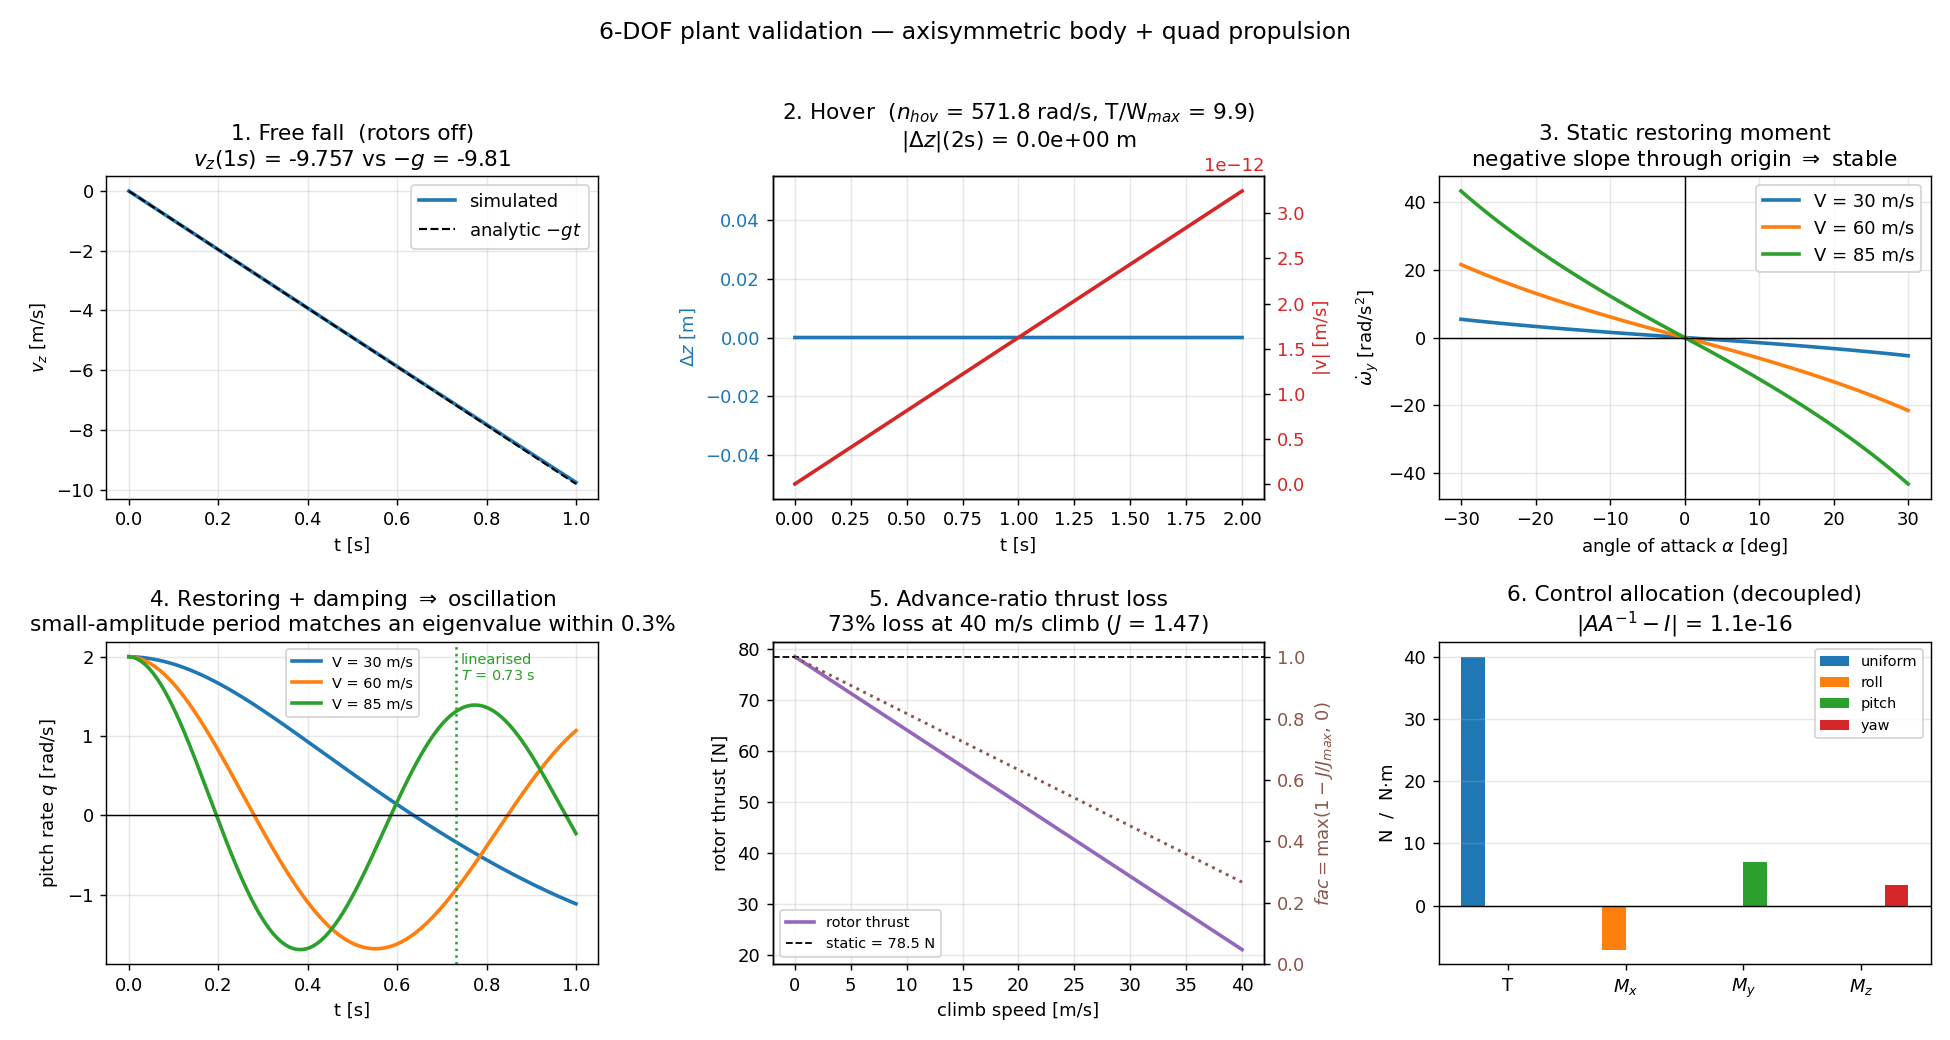
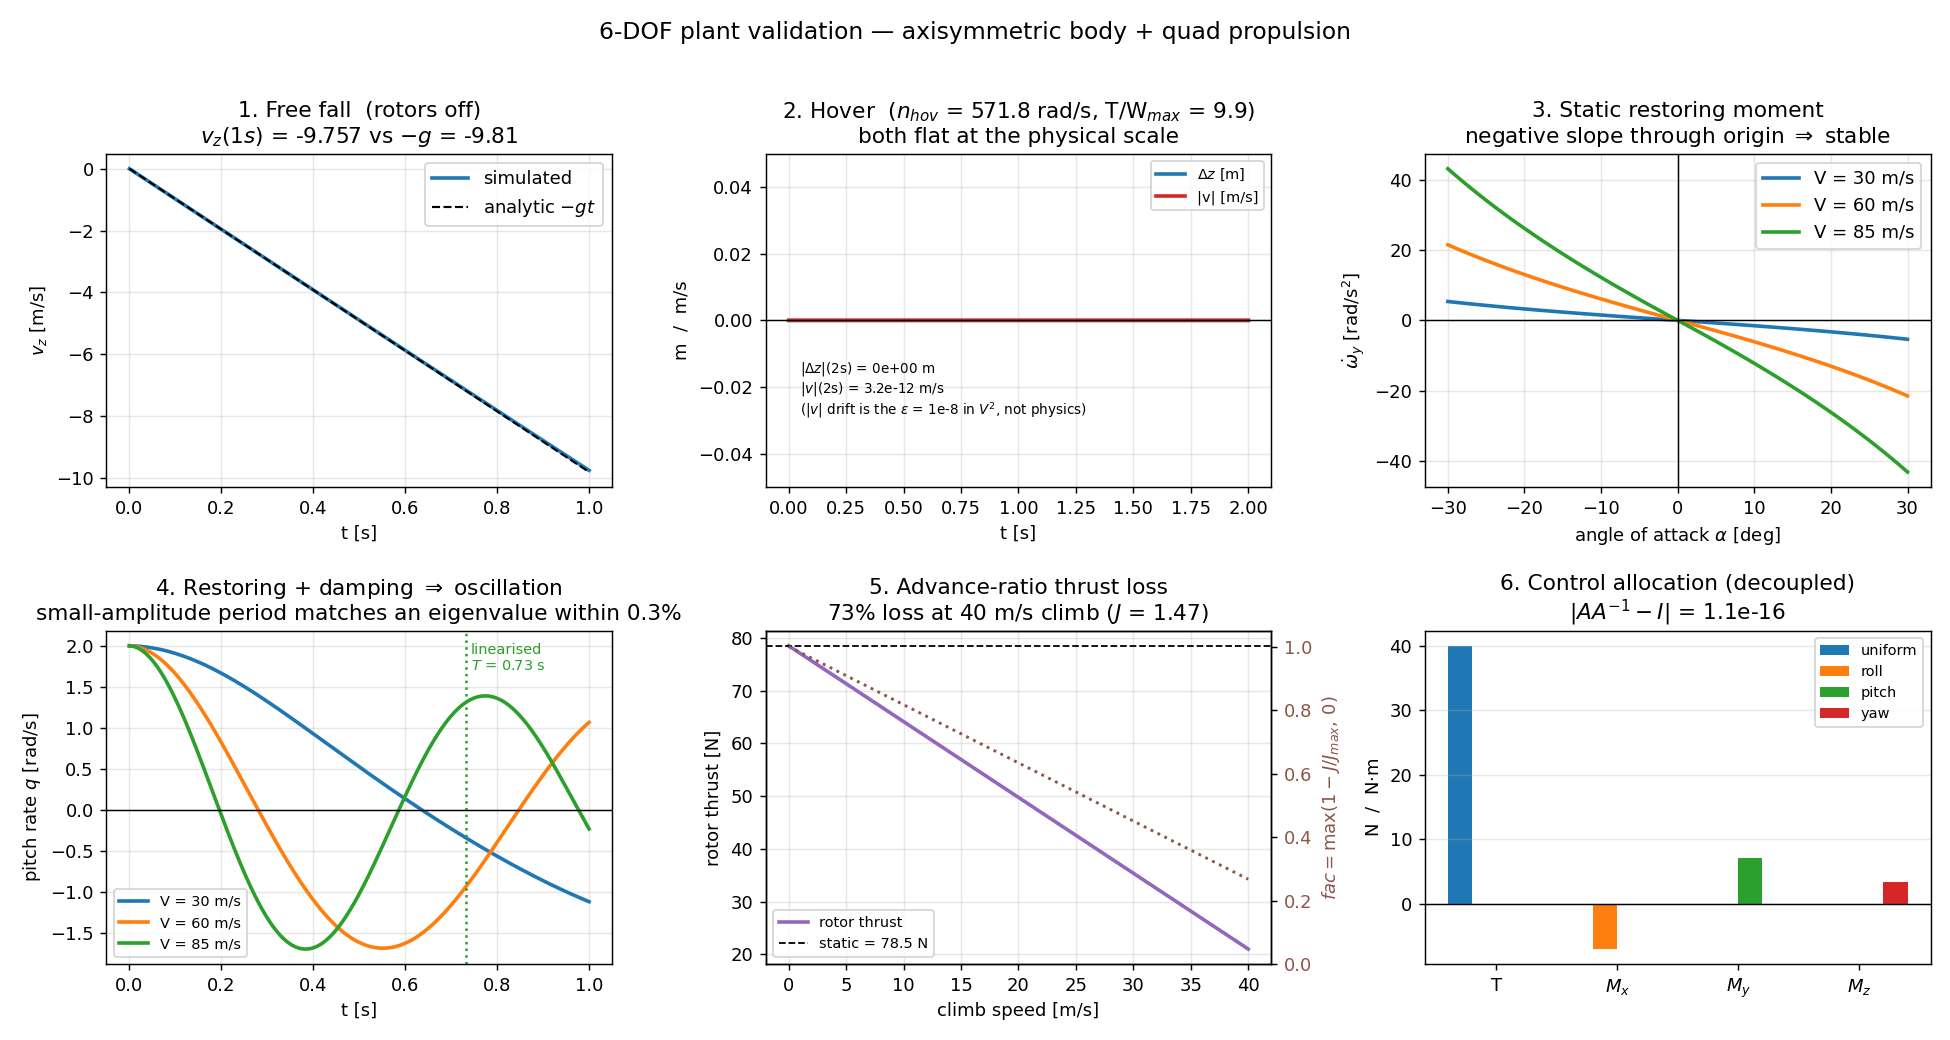
호버 패널 축 고정 + |v| 단조증가 원인 규명 (dynamics.py EPS)
kj 질문: 2 번 그림에서 |v| 가 왜 단조증가하나.

원인은 dynamics.py:67 의 V_sq = u^2+v^2+w^2 + EPS (1e-8) 다.
호버에서 진짜 대기속도는 0 인데 V_sq = 1e-8 이라 가짜 동압
q_bar = 6.125e-9 Pa 이 생기고, 축력 Fx = -q_bar*S*C_A0 = -1.2989e-11 N
-> a_x = -1.6236e-12 m/s^2 (일정) -> 2 초에 |v| = 3.2471e-12 m/s.
시뮬 실측 3.2471e-12 — 손계산과 5 자리까지 일치.

x 방향만 나오는 이유: 대기속도가 0 이면 법선력은 v_b, w_b 에 비례해 사라지고
축력 항만 남는다. v_dot_z = -1.8e-15 는 순수 부동소수 노이즈다.

물리적으로 무의미한 크기지만(65 초 미션에서도 위치 드리프트 1e-9 m) **그림이
오해를 부른다** — y 축이 1e-12 로 자동 스케일돼서 물리적으로 0 인 값이 추세처럼
보인다. kj 가 물어본 게 발표장에서도 나올 질문이라:
- 축을 물리 스케일(+-0.05)로 고정해 둘 다 평평하게 보이도록
- 실제 값과 원인을 그림 안에 글자로
- 발표 개요 4 장에 '발표 중 나올 질문'으로 설명 추가

diff --git a/control/plot_plant_validation.py b/control/plot_plant_validation.py
@@ -55,19 +55,34 @@ def main():
     ax[0, 0].legend(); ax[0, 0].grid(alpha=.3)
 
     # ── 2) 호버 ─────────────────────────────────────────────────────
+    # ⚠ 축을 자동 스케일에 맡기면 안 된다. 호버의 Δz·|v| 는 물리적으로 0 인데
+    #   1e-12 스케일로 늘려 그리면 **추세처럼 보인다.** 실제로 |v| 가 단조증가
+    #   하는데, 원인은 dynamics.py:67 의 V_sq = u^2+v^2+w^2 + EPS 다:
+    #     호버에서 진짜 대기속도는 0 인데 V_sq = 1e-8 이라 가짜 동압
+    #     q_bar = 6.13e-9 Pa 이 생기고, 축력 Fx = -q_bar*S*C_A0 = -1.30e-11 N
+    #     -> a_x = -1.62e-12 m/s^2 (일정) -> 2 초에 |v| = 3.25e-12 m/s.
+    #   손계산과 시뮬이 5 자리까지 일치한다. 법선력은 v_b=w_b=0 이라 사라지고
+    #   축력만 남아서 x 방향으로만 나온다. 물리적으로는 무의미한 크기다.
+    #   그래서 **물리 스케일로 고정**하고 실제 값은 글자로 적는다.
     x0 = AxialDronePlant.hover_state(P); x0[2] = 10.0
     ts, xs, _ = plant.simulate(x0, lambda t, x: u_hov, T=2.0)
+    dz = xs[:, 2] - 10.0
+    vmag = np.linalg.norm(xs[:, 3:6], axis=1)
     a2 = ax[0, 1]
-    a2.plot(ts, xs[:, 2] - 10.0, lw=2, color="C0", label=r"$\Delta z$")
-    a2.set_xlabel("t [s]"); a2.set_ylabel(r"$\Delta z$ [m]", color="C0")
-    a2.tick_params(axis="y", labelcolor="C0")
-    a2b = a2.twinx()
-    a2b.plot(ts, np.linalg.norm(xs[:, 3:6], axis=1), lw=2, color="C3", label="|v|")
-    a2b.set_ylabel("|v| [m/s]", color="C3"); a2b.tick_params(axis="y", labelcolor="C3")
+    a2.plot(ts, dz, lw=2, color="C0", label=r"$\Delta z$ [m]")
+    a2.plot(ts, vmag, lw=2, color="C3", label="|v| [m/s]")
+    a2.set_ylim(-0.05, 0.05)
+    a2.axhline(0, color="k", lw=.8)
+    a2.set_xlabel("t [s]"); a2.set_ylabel("m  /  m/s")
     TW = 4 * P["k_T"] * P["n_max"] ** 2 / (P["mass"] * P["g"])
     a2.set_title(f"2. Hover  ($n_{{hov}}$ = {n_hov:.1f} rad/s, T/W$_{{max}}$ = {TW:.1f})\n"
-                 rf"$|\Delta z|$(2s) = {abs(xs[-1,2]-10):.1e} m")
-    a2.grid(alpha=.3)
+                 "both flat at the physical scale")
+    a2.text(0.05, -0.030,
+            f"$|\\Delta z|$(2s) = {abs(dz[-1]):.0e} m\n"
+            f"$|v|$(2s) = {vmag[-1]:.1e} m/s\n"
+            r"($|v|$ drift is the $\epsilon$ = 1e-8 in $V^2$, not physics)",
+            fontsize=7.5, va="bottom")
+    a2.legend(loc="upper right", fontsize=8); a2.grid(alpha=.3)
 
     # ── 3) 복원 모멘트 — 받음각 스윕 ────────────────────────────────
     alphas = np.linspace(-30, 30, 61)

diff --git a/results/roleA_proposal_outline.md b/results/roleA_proposal_outline.md
@@ -74,11 +74,19 @@
 | # | 무엇을 확인 | 결과 |
 |---|---|---|
 | 1 자유낙하 | 로터 0 → 해석해 `−gt` | `v_z(1s)` = −9.757 vs −9.81 |
-| 2 호버 | `n_hov` = 571.8 로 무게 지지 | `\|Δz\|`(2s) = 1e-16 m |
+| 2 호버 | `n_hov` = 571.8 로 무게 지지 | `\|Δz\|`(2s) = 0 m, `\|v\|` = 3e-12 m/s |
 | 3 복원 모멘트 | α 스윕 −30~+30° | 원점 통과 **음의 기울기** = 정적 안정 |
 | 4 감쇠+복원 | `q₀` 응답 | **진동** (ζ 낮음). 소진폭 주기가 고유값과 **0.3%** 일치 |
 | 5 전진비 | 상승속도 0~40 m/s | 로터 추력 **73.3% 감소** (`fac` 1.000→0.267) |
 | 6 제어 할당 | `A·A⁻¹` | `1.1e-16`, 롤·피치·요 **결합 없음** |
+
+> **호버의 `|v|` 가 왜 정확히 0이 아닌가** (발표 중 나올 질문)
+> `dynamics.py:67` 의 `V_sq = u²+v²+w² + ε` (ε=1e-8) 때문이다. 호버에서 진짜
+> 대기속도는 0인데 `V_sq = 1e-8` 이라 가짜 동압 `q̄ = 6.13e-9 Pa` 이 생기고,
+> 축력 `Fx = −q̄·S·C_A0 = −1.30e-11 N` → `a_x = −1.62e-12 m/s²` (일정) →
+> 2초에 `|v| = 3.25e-12 m/s`. **손계산과 시뮬이 5자리까지 일치한다.**
+> 법선력은 `v_b=w_b=0` 이라 사라지고 축력만 남아 x 방향으로만 나온다.
+> ε는 `V_cf` 가 0이 되어 0으로 나누는 걸 막는 정규화이고, 이 크기는 무의미하다.
 
 > **4번이 교차검증이다.** 시간영역 진동 주기를 재서 겹2의 야코비안 고유값과 대조한다.
 > 시뮬레이터와 선형화가 서로를 확인하는 자리다.
